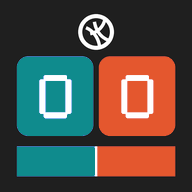
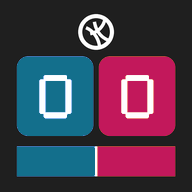
Nouvelle palette pétrole et magenta

diff --git a/sw.js b/sw.js
@@ -1,5 +1,5 @@
 // Garde l'app en mémoire sur le téléphone pour qu'elle marche sans internet.
-const CACHE = 'volleyscore-v2';
+const CACHE = 'volleyscore-v3';
 const FILES = ['./', './index.html', './manifest.json', './icon-180.png', './icon-192.png', './icon-512.png'];
 self.addEventListener('install', e => {
   e.waitUntil(caches.open(CACHE).then(c => c.addAll(FILES)).then(() => self.skipWaiting()));

diff --git a/index.html b/index.html
@@ -14,7 +14,7 @@
 <meta name="theme-color" content="#1f1f1f">
 <style>
 :root{
-  --home:#0F8B8D; --away:#E4572E;
+  --home:#136F8C; --away:#C2185B;
   --bg:#eceef1; --panel:#ffffff; --ink:#1c1c1e; --muted:#9a9aa0; --scrim:rgba(0,0,0,.55);
   box-sizing:border-box;
   padding-top:env(safe-area-inset-top,0px);
